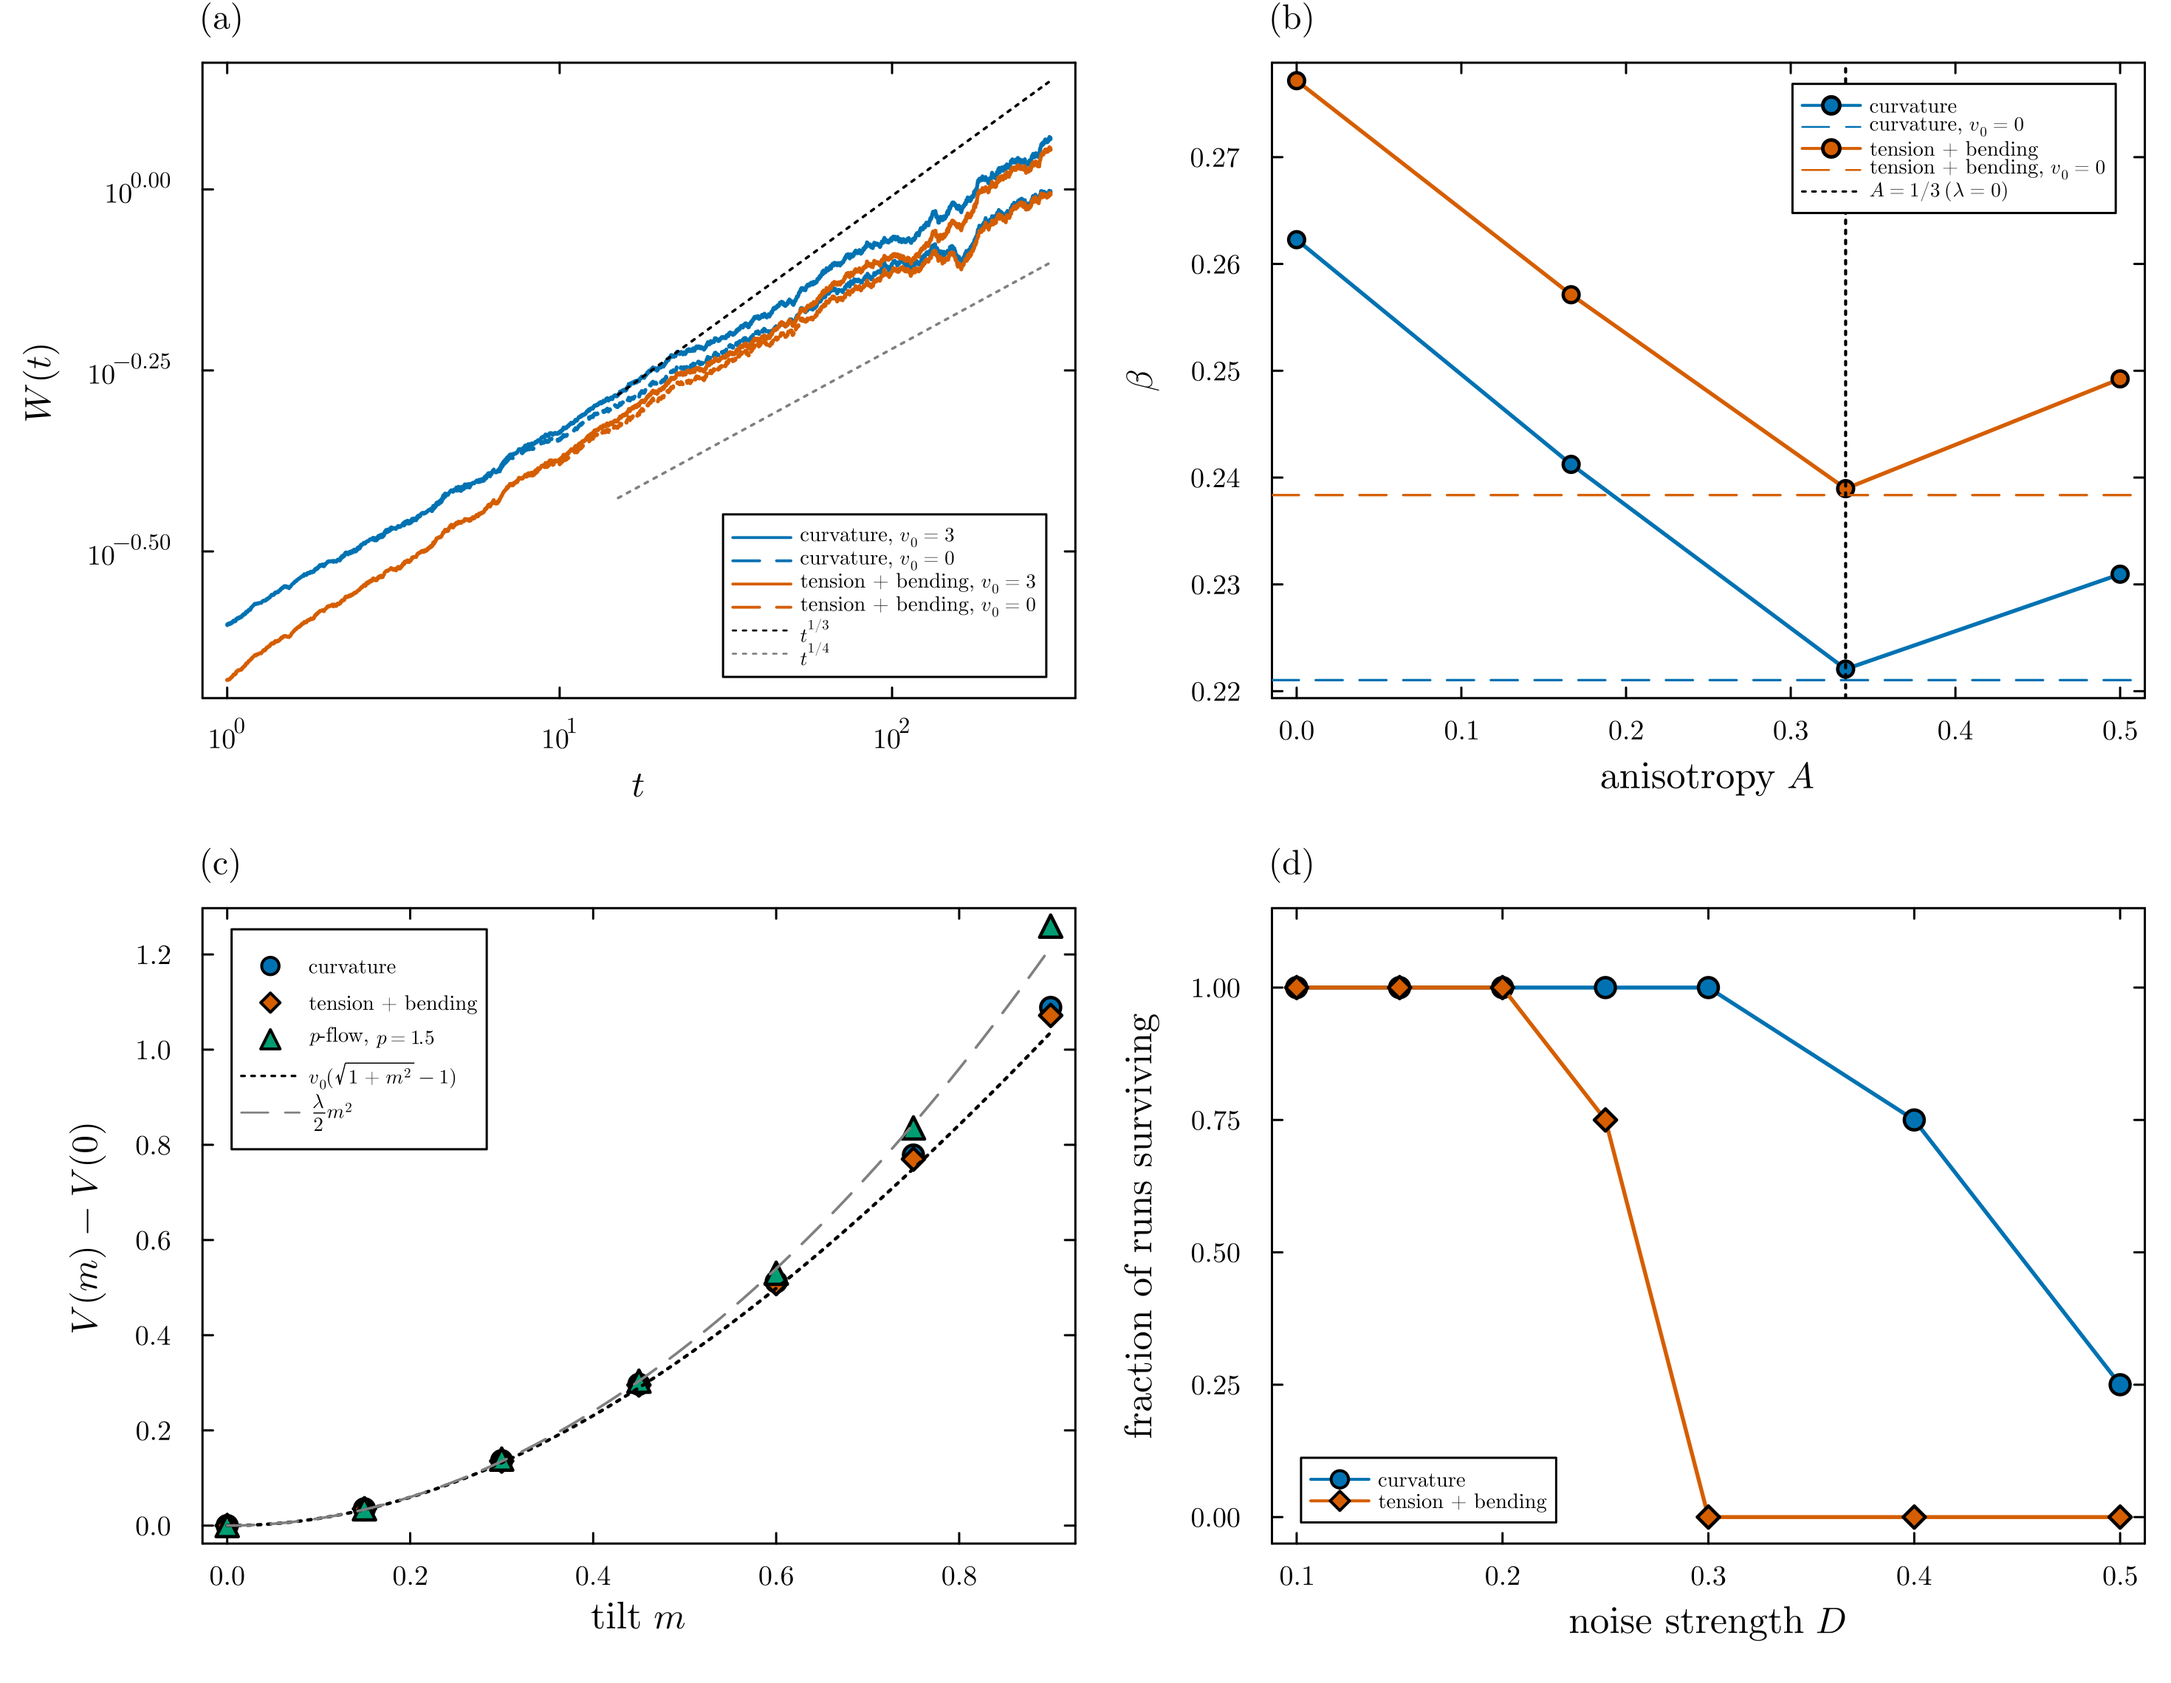
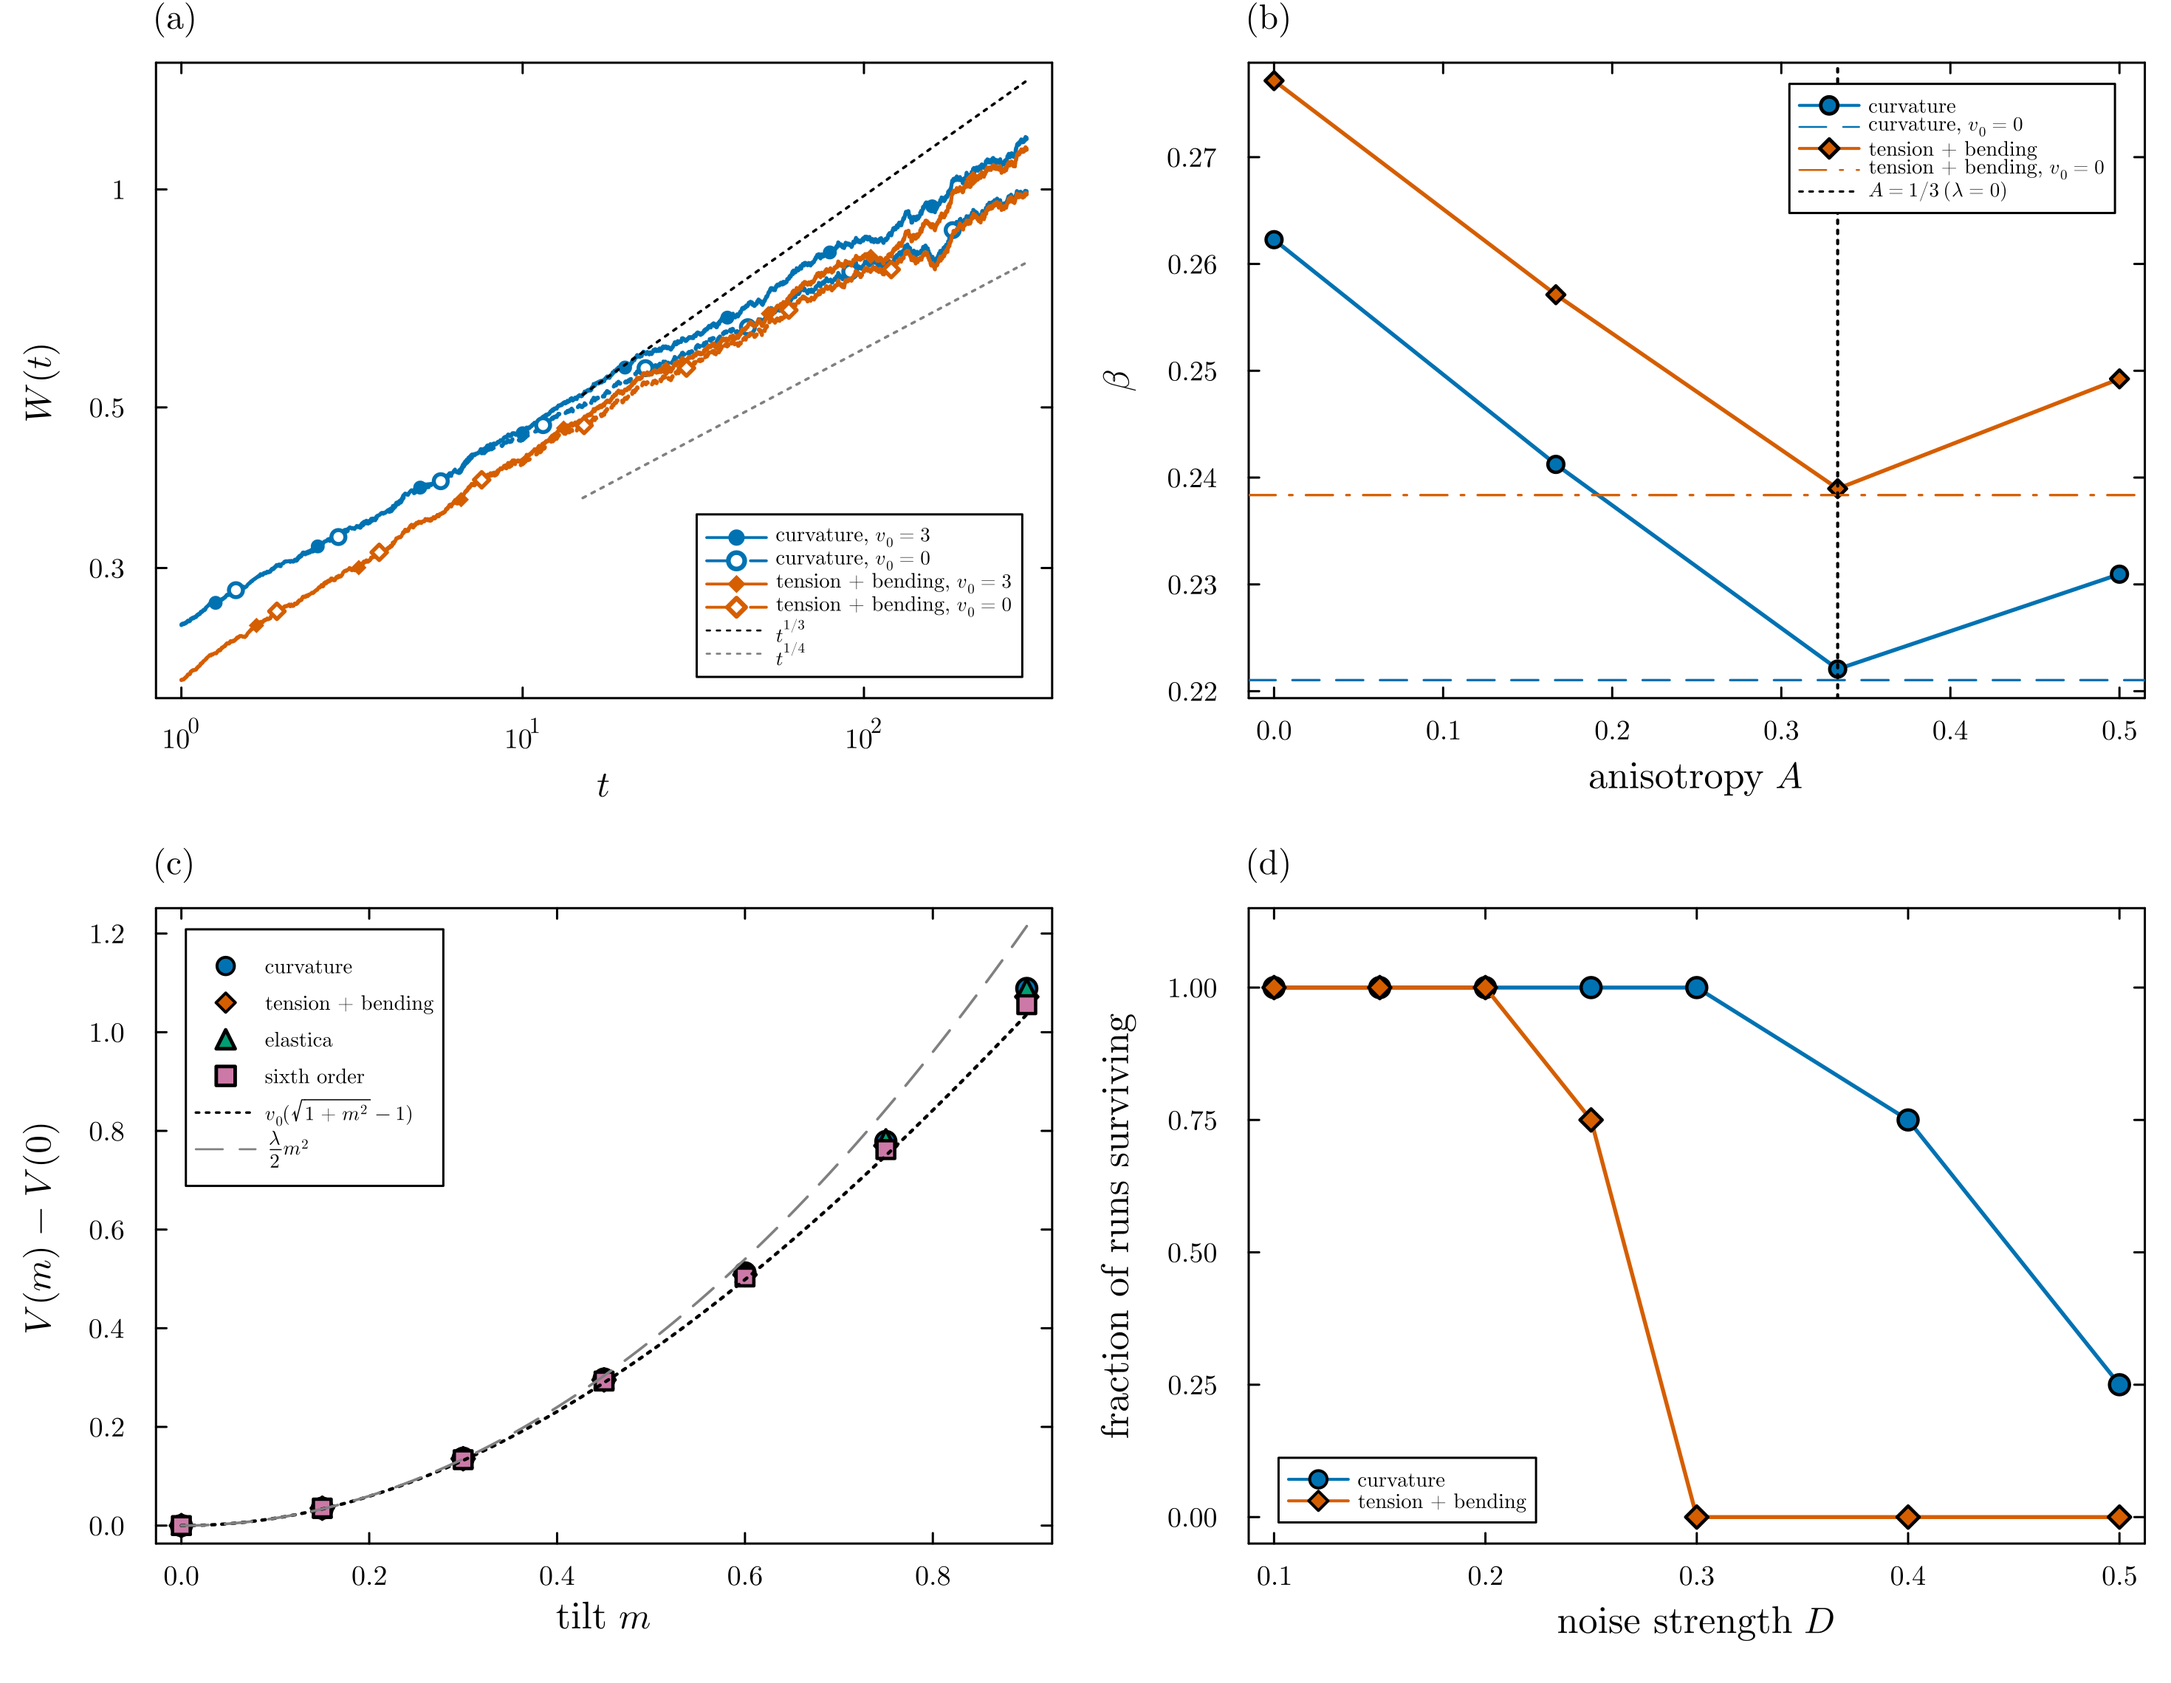
Fig. 2: show the four quoted flows in panel (c), add colour-independent markers
- article_polyflows.jl writes the raw tilt-velocity points (article_polyC_tilt.csv)
  for the elastica and sixth-order flows; article_fluxes.jl plots them in panel (c)
  in place of the p-flow, so the panel shows the flows whose lambda the text quotes.
- Each flow keeps one marker in every panel; in (a) open markers mark v0 = 0.
- Regenerated all data: every existing CSV is byte-identical to the previous run.
- README: new title, new data file, run order (polyflows first).

diff --git a/README.md b/README.md
@@ -3,7 +3,7 @@
 Code and data for the article
 
 > G. E. Ardila Carrillo and J. C. Cortissoz Iriarte,
-> *Why does the ubiquitous Kardar–Parisi–Zhang equation appear everywhere?*
+> *Why is the Kardar–Parisi–Zhang equation ubiquitous?*
 
 The scripts integrate the exact graph equation of a moving interface,
 
@@ -20,14 +20,16 @@ any difference between two runs comes from the flux alone.
 | Path | Description |
 |---|---|
 | `scripts/article_fluxes.jl` | Experiments 1–4: growth exponent β with and without growth, β against the kinetic anisotropy A, the tilt–velocity relation, and graph survival under strong noise. Produces `figures/fig_fluxes.png` and `data/article_exp{1,2,3,4}.csv`. |
-| `scripts/article_polyflows.jl` | Higher-order flows (elastica, surface diffusion, sixth-order polyharmonic and energy-ladder flows). Produces `data/article_poly{A,B,C,D}.csv`. |
+| `scripts/article_polyflows.jl` | Higher-order flows (elastica, surface diffusion, sixth-order polyharmonic and energy-ladder flows). Produces `data/article_poly{A,B,C,D}.csv` and the raw tilt–velocity points `data/article_polyC_tilt.csv`. |
 | `data/` | The data shown in the figure and in the table of growth exponents. |
 | `figures/fig_fluxes.png` | The figure of the article. |
 
 ### Mapping to the article
 
-- **Figure (panels a–d)**: `article_exp1.csv` (a), `article_exp2.csv` (b),
-  `article_exp3.csv` (c), `article_exp4.csv` (d).
+- **Fig. 2 (panels a–d)**: `article_exp1.csv` (a), `article_exp2.csv` (b),
+  `article_exp3.csv` and `article_polyC_tilt.csv` (c), `article_exp4.csv` (d).
+- **λ from the tilt–velocity relation** (quoted in the text): `article_exp3.csv`
+  (curvature, tension + bending) and `article_polyC.csv` (elastica, sixth order).
 - **Table of effective exponents β**: second-order rows (curvature,
   tension + bending, p-flows) from `article_exp1.csv`; higher-order rows
   (elastica, sixth order, surface diffusion) from `article_polyA.csv` and
@@ -48,9 +50,12 @@ Requires Julia ≥ 1.10.
 
 ```sh
 julia --project=. -e 'using Pkg; Pkg.instantiate()'
-julia --project=. scripts/article_fluxes.jl
 julia --project=. scripts/article_polyflows.jl
+julia --project=. scripts/article_fluxes.jl
 ```
+
+Run `article_polyflows.jl` first: panel (c) of the figure reads the
+fourth- and sixth-order points from `data/article_polyC_tilt.csv`.
 
 Each script overwrites the corresponding files in `data/` (and `figures/`).
 Random seeds are fixed, so the runs are reproducible.
